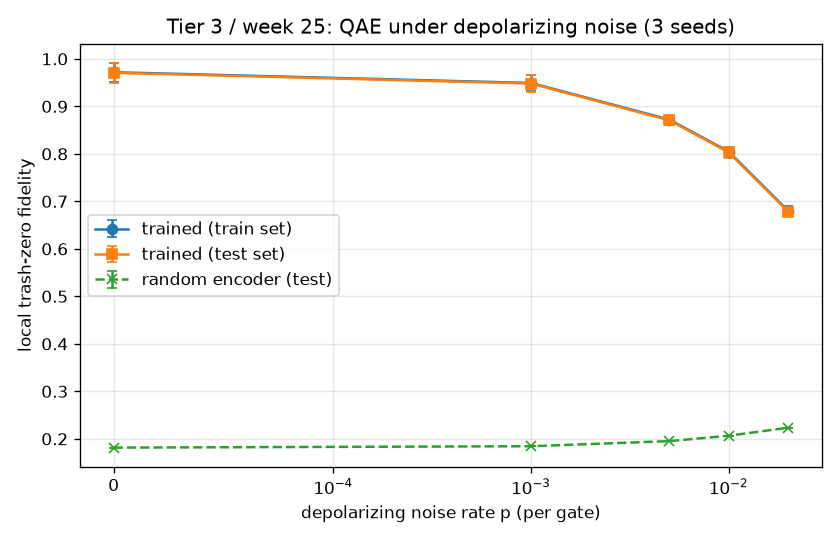
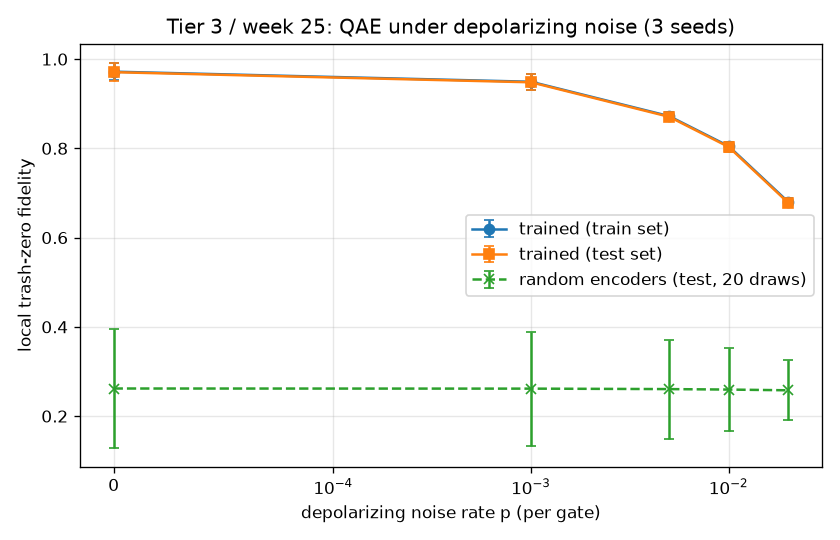
docs + figure: report the 20-draw random-encoder baseline for week 25
Rerun of week 25 with 20 seeded random encoders per noise level (exit
0, 790 s). Test fidelity of the random encoders, mean +/- std over the
20 draws: 0.2619 +/- 0.1325 at p = 0, 0.2606 +/- 0.1111 at p = 0.005,
0.2579 +/- 0.0669 at p = 0.02; the trained-minus-random gap is +61 pp
at p = 0.005 (was +68 pp against the single draw). Update the
TIER3_REVIEW section 1.3 table and text, the README row and 3C line,
week25_notes, and commit the regenerated week25_noise_curve.png (now
with random-encoder error bars). Trained-QAE numbers are unchanged.

Claude-Session: https://claude.ai/code/session_01PWSXcyEx8MpeCxMpwDRFHN

diff --git a/TIER3_REVIEW.md b/TIER3_REVIEW.md
@@ -71,19 +71,21 @@ the data, and the Spearman gate could essentially not fail.
 ### 1.3 Noise robustness was real but limited
 
 Week 25, test local fidelity $P(\text{trash} = 00)$, mean ± std over 3
-seeds:
+seeds for the trained QAE and over 20 seeded random (untrained) encoders,
+the same 20 at every $p$:
 
-| depolarizing rate $p$ | trained-test fidelity | random-encoder | Δ |
+| depolarizing rate $p$ | trained-test fidelity | random encoders (20) | Δ |
 |---:|---:|---:|---:|
-| 0.000 | 0.971 ± 0.021 | 0.182 | **+79 pp** |
-| 0.001 | 0.948 ± 0.018 | 0.185 | **+76 pp** |
-| 0.005 | 0.871 ± 0.009 | 0.195 | **+68 pp** |
-| 0.010 | 0.803 ± 0.011 | 0.207 | **+60 pp** |
-| 0.020 | 0.678 ± 0.010 | 0.224 | **+45 pp** |
+| 0.000 | 0.971 ± 0.021 | 0.2619 ± 0.1325 | **+71 pp** |
+| 0.001 | 0.948 ± 0.018 | 0.2616 ± 0.1278 | **+69 pp** |
+| 0.005 | 0.871 ± 0.009 | 0.2606 ± 0.1111 | **+61 pp** |
+| 0.010 | 0.803 ± 0.011 | 0.2595 ± 0.0934 | **+54 pp** |
+| 0.020 | 0.678 ± 0.010 | 0.2579 ± 0.0669 | **+42 pp** |
 
 The $p$ values are sweep points, not calibrated to any device. At the
-mid-sweep point $p = 5\times10^{-3}$ the trained QAE was 68 pp above a
-random encoder, but the absolute fidelity has dropped from 0.97 to 0.87. That delta would compound in any
+mid-sweep point $p = 5\times10^{-3}$ the trained QAE was 61 pp above the
+mean of the random encoders, but the absolute fidelity has dropped from
+0.97 to 0.87. That delta would compound in any
 downstream computation that fed the decoded state into another circuit.
 
 Interpreting the slope: the decline flattens as $p$ grows (about 23

diff --git a/README.md b/README.md
@@ -23,7 +23,7 @@ weeks 23-26 and writes the QAE and classical-AE rows to
 | QAE local fidelity, all 22 states, 5 seeds (week 23) | 0.9825 ± 0.0214 |
 | QAE test reconstruction fidelity, 5 seeds (week 24) | 0.9871 ± 0.0258 |
 | Spearman(r, latent PC1), seed 0 (week 24); 1000 untrained encoders give median abs. value 1.000 | -1.000 |
-| QAE test local fidelity at depolarizing p = 0.005, 3 seeds (week 25) | 0.8707 ± 0.0090 (random encoder 0.1952) |
+| QAE test local fidelity at depolarizing p = 0.005, 3 seeds (week 25) | 0.8707 ± 0.0090 (20 random encoders: 0.2606 ± 0.1111) |
 | Linear classical AE, 256 params, test reconstruction (week 26) | 1.0000 ± 0.0000 |
 | Nonlinear classical AE, 136 params, test reconstruction (week 26) | 0.9811 ± 0.0211 |
 
@@ -169,7 +169,7 @@ control that passes the same test.
 ### 3C. Noise robustness (week 25) ✓
 Switch from `default.qubit` → `default.mixed` with depolarizing channel
 noise; sweep $p \in \{0, 10^{-3}, 5\cdot10^{-3}, 10^{-2}, 2\cdot10^{-2}\}$;
-trained-vs-random baseline at every noise level.
+trained QAE (3 seeds) vs 20 seeded random encoders at every noise level.
 
 ### 3D. Classical autoencoder baselines (week 26) ✓
 Linear AE oracle (256 params) and a small nonlinear AE (136 params; the

diff --git a/tier3/week25_notes.md b/tier3/week25_notes.md
@@ -23,7 +23,8 @@ calibration data and a gate-specific noise model.
 
 ## Random-encoder baseline
 
-We also evaluate a *random* (untrained) encoder at each $p$. Reason:
+We also evaluate 20 *random* (untrained) encoders at each $p$ (seeded,
+the same 20 draws at every $p$) and report their mean ± std. Reason:
 on a depolarizing channel of any nonzero $p$, *every* encoder loses
 fidelity. The interesting question is whether a trained QAE has a real
 "signal" advantage over an arbitrary one. Concretely:
@@ -36,6 +37,10 @@ If $\Delta(p) \to 0$ at large $p$, training stops mattering. If
 $\Delta(p)$ stays > 30 pp through $p = 0.005$, the QAE is still
 extracting useful structure at the mid-sweep point. The
 assertion at the bottom requires the latter.
+
+Measured (pinned `requirements.txt`): at $p = 0.005$ the trained QAE's
+test fidelity is 0.8707 ± 0.0090 (3 seeds) against 0.2606 ± 0.1111 for
+the random encoders, $\Delta = +61$ pp; at $p = 0.02$, $\Delta = +42$ pp.
 
 ## How training under noise differs
 
